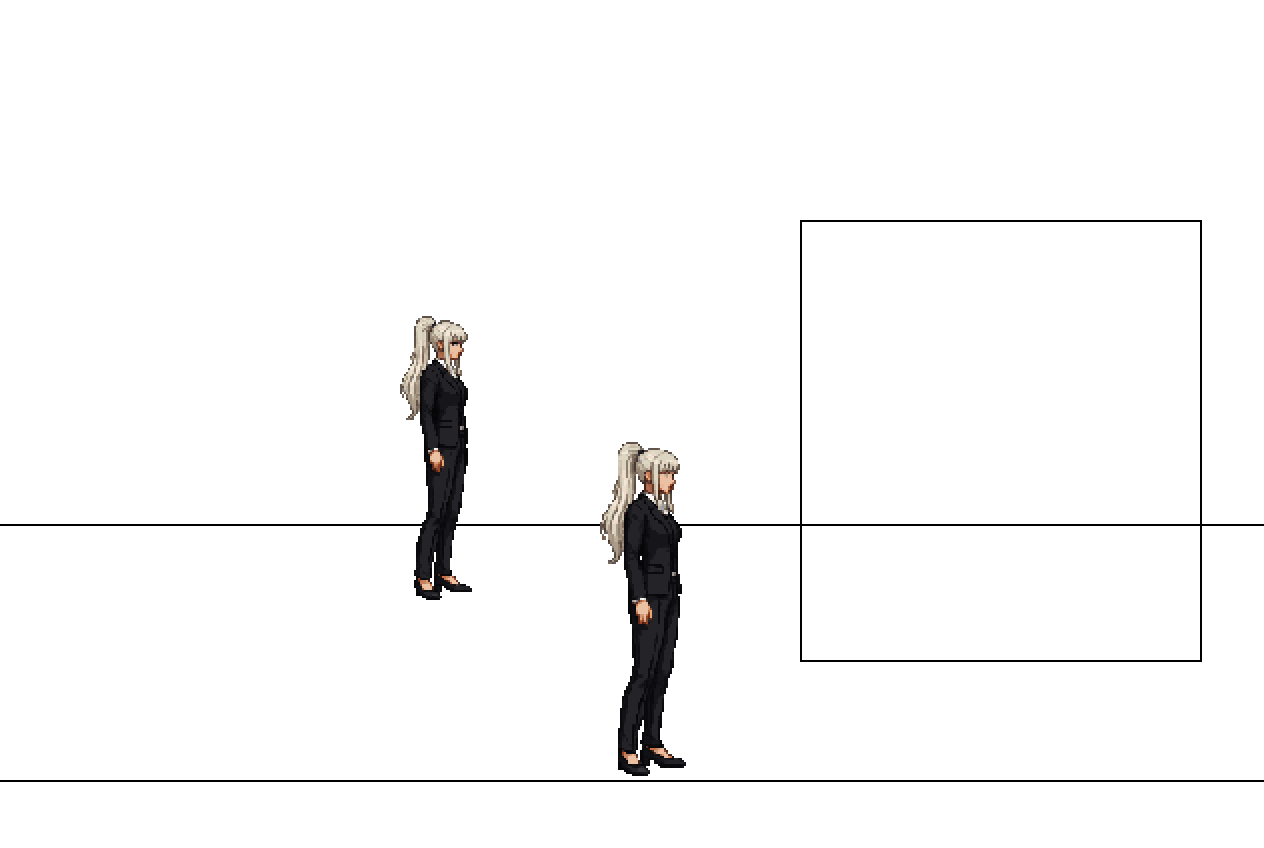
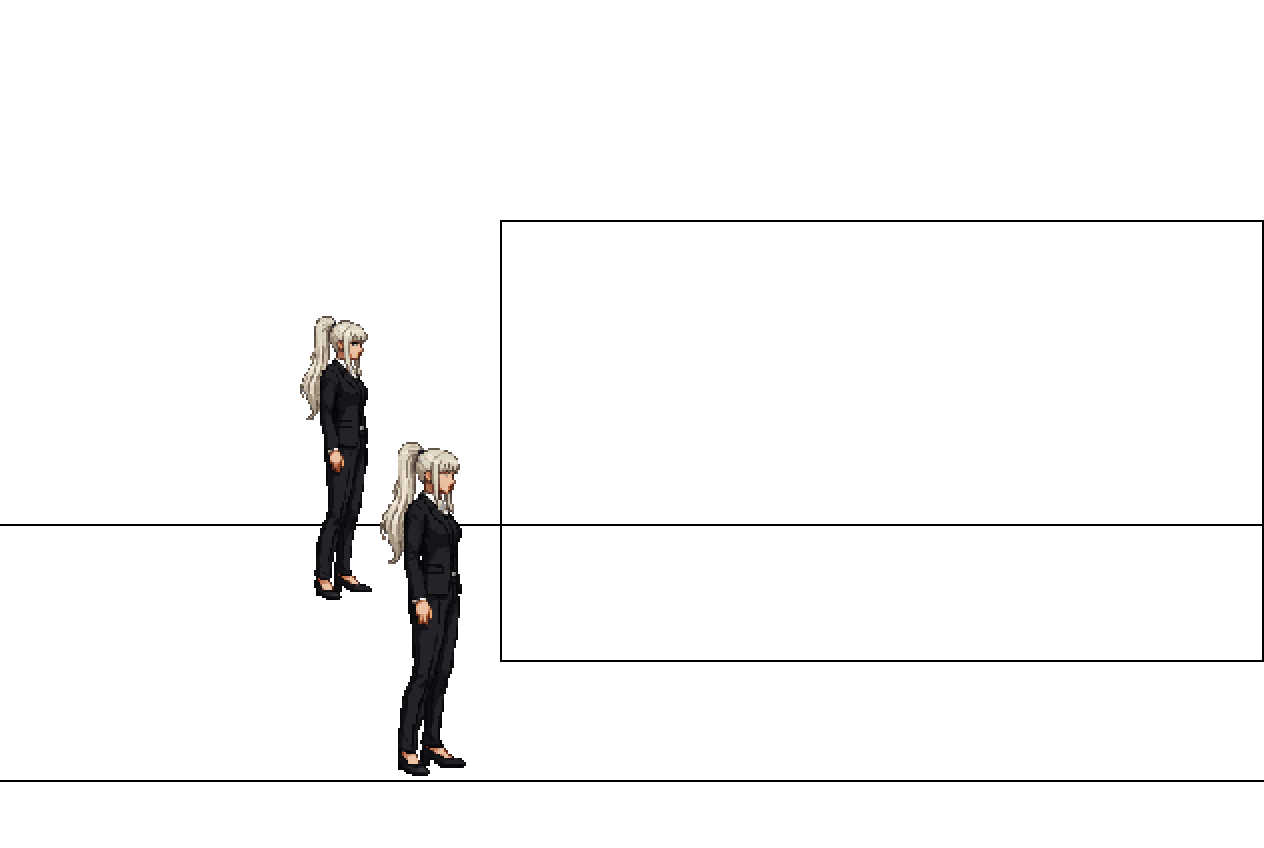
지상 첫 장: 지하상가 입구를 가운데부터 오른쪽 끝 밖까지 길게
Claude-Session: https://claude.ai/code/session_01JodrzemTroe6BHDEPyP4EJ

Changed region(s): [[0.216, 0.3679, 0.3703, 0.9198], [0.4628, 0.5212, 0.5554, 0.9198], [0.9873, 0.2453, 1.0, 0.7972]]

diff --git a/tools/pixellab/specs_jr_entry_v1.py b/tools/pixellab/specs_jr_entry_v1.py
@@ -7,16 +7,16 @@
 import json
 D = 'game-src/art/pixellab-test-20261028/specs/'
 items = [
- ("right 35 percent: a freestanding arcade entrance on the sidewalk like a Seoul subway exit, open end facing left, stairs going down to the right into darkness, waist-high railings on both sides, a glass canopy over it", "사용자: 오른쪽에 지하철 출입구 같은 지하상가 입구"),
+ ("right 60 percent: a long freestanding arcade entrance on the sidewalk like a Seoul subway exit, running from the middle to past the right edge, open end facing left, stairs going down to the right into darkness, waist-high railings along both sides, a long glass canopy over it", "사용자: 오른쪽에 지하철 출입구 같은 지하상가 입구"),
  ("on top of the canopy, right above the entrance: a sign board reading \"중림지하상가\"", "사용자: 간판은 입구 위"),
- ("clear empty sidewalk in front of the entrance", "출입구 앞 비움"),
+ ("clear sidewalk before the entrance", "출입구 앞 비움"),
  ("back: old low-rise shop buildings along the whole width, ground floor and part of the second floor, tops cut off", "거리 뒤 건물"),
- ("on the building fronts: faded blank signs, closed rusty shutters, a small open shop, a note reading \"임대\" on an empty window", "낡은 상가 거리"),
- ("against the buildings: a vending machine, a parked delivery motorbike, potted plants, trash bags and boxes", "거리 소품(인도 뒤쪽, 걷는 길 비움)"),
+ ("on the building fronts: faded blank signs, closed shutters, a small open shop, a note reading \"임대\" on an empty window", "낡은 상가 거리"),
+ ("against the buildings: a vending machine, a parked motorbike, potted plants, trash bags and boxes", "거리 소품(인도 뒤쪽, 걷는 길 비움)"),
  ("a utility pole with tangled wires", "전봇대·전선"),
  ("an old public phone", "공중전화"),
  ("a torn redevelopment banner, no letters", "재개발 현수막"),
- ("bottom 8 percent: a granite curb and a strip of asphalt road, no cars, no road markings", "사용자: 차도는 맨 아래 띠, 걷지 않음"),
+ ("bottom 8 percent: a curb and an asphalt strip, no cars, no markings", "사용자: 차도는 맨 아래 띠, 걷지 않음"),
  ("left 10 percent: only building fronts and sidewalk, continuing past the edge", "왼쪽으로 이어 그리기 자리"),
 ]
 d = {

diff --git a/tools/pixellab/guide_jr_street_v1.py b/tools/pixellab/guide_jr_street_v1.py
@@ -1,11 +1,11 @@
 """중림 지상 거리 가이드 v1(사용자 10-31): 투명 바탕에 선만. 통로 가이드와 같은 높이 기준.
 위 가로선 y262 = 인도가 건물 앞면과 만나는 선(바닥 38%), 아래 가로선 y390 = 연석(인도 끝, 그 아래 차도 띠 8%),
-사각형 x400~600 y110~330 = 오른쪽 지하상가 출입구(지붕 위 간판 포함)의 크기·자리."""
+사각형 x250~631 y110~330 = 오른쪽 지하상가 출입구(지붕 위 간판 포함): 그림 가운데부터 오른쪽 끝 밖까지 이어지는 긴 출입구."""
 import sys
 from PIL import Image, ImageDraw
 P = sys.argv[1]
 W, H = 632, 424
 im = Image.new('RGBA', (W, H), (0, 0, 0, 0)); d = ImageDraw.Draw(im); K = (0, 0, 0, 255)
 d.line([(0, 262), (W, 262)], fill=K); d.line([(0, 390), (W, 390)], fill=K)
-d.rectangle([400, 110, 600, 330], outline=K)
+d.rectangle([250, 110, 631, 330], outline=K)   # 사용자 10-31 「저렇게 짧게?」: 입구는 길게, 오른쪽 끝 밖으로 이어짐
 im.save(P + '/jr_street_guide_v1.png')

diff --git a/game-src/art/pixellab-test-20261028/specs/jr_entry_p1_v1_review.md b/game-src/art/pixellab-test-20261028/specs/jr_entry_p1_v1_review.md
@@ -4,9 +4,9 @@
 
 ## 점검 결과
 
-- WARN 설명이 김(37낱말): right 35 percent: a freestanding arcade entrance on the sidewalk like a Seoul subway exit, open end facing left, stairs going down to the right into darkness, waist-high railings on both sides, a glass canopy over it
+- WARN 설명이 김(48낱말): right 60 percent: a long freestanding arcade entrance on the sidewalk like a Seoul subway exit, running from the middle to past the right edge, open end facing left, stairs going down to the right into darkness, waist-high railings along both sides, a long glass canopy over it
 - WARN 설명이 김(20낱말): back: old low-rise shop buildings along the whole width, ground floor and part of the second floor, tops cut off
-- WARN 설명이 김(22낱말): on the building fronts: faded blank signs, closed rusty shutters, a small open shop, a note reading "임대" on an empty window
+- WARN 설명이 김(21낱말): on the building fronts: faded blank signs, closed shutters, a small open shop, a note reading "임대" on an empty window
 - WARN 바닥 칸에 빛·그림자 없음
 
 ## 근거
@@ -35,16 +35,16 @@
 
 | # | 1차 (상세) | 근거 | 남길 낱말 | 2차 (실제) | 뺀 낱말(이유) |
 |---|---|---|---|---|---|
-| 0 | right 35 percent: a freestanding arcade entrance on the sidewalk like a Seoul subway exit, open end facing left, stairs going down to the right into darkness, waist-high railings on both sides, a glass canopy over it | 사용자: 오른쪽에 지하철 출입구 같은 지하상가 입구 |  | right 35 percent: a freestanding arcade entrance on the sidewalk like a Seoul subway exit, open end facing left, stairs going down to the right into darkness, waist-high railings on both sides, a glass canopy over it |  |
+| 0 | right 60 percent: a long freestanding arcade entrance on the sidewalk like a Seoul subway exit, running from the middle to past the right edge, open end facing left, stairs going down to the right into darkness, waist-high railings along both sides, a long glass canopy over it | 사용자: 오른쪽에 지하철 출입구 같은 지하상가 입구 |  | right 60 percent: a long freestanding arcade entrance on the sidewalk like a Seoul subway exit, running from the middle to past the right edge, open end facing left, stairs going down to the right into darkness, waist-high railings along both sides, a long glass canopy over it |  |
 | 1 | on top of the canopy, right above the entrance: a sign board reading "중림지하상가" | 사용자: 간판은 입구 위 |  | on top of the canopy, right above the entrance: a sign board reading "중림지하상가" |  |
-| 2 | clear empty sidewalk in front of the entrance | 출입구 앞 비움 |  | clear empty sidewalk in front of the entrance |  |
+| 2 | clear sidewalk before the entrance | 출입구 앞 비움 |  | clear sidewalk before the entrance |  |
 | 3 | back: old low-rise shop buildings along the whole width, ground floor and part of the second floor, tops cut off | 거리 뒤 건물 |  | back: old low-rise shop buildings along the whole width, ground floor and part of the second floor, tops cut off |  |
-| 4 | on the building fronts: faded blank signs, closed rusty shutters, a small open shop, a note reading "임대" on an empty window | 낡은 상가 거리 |  | on the building fronts: faded blank signs, closed rusty shutters, a small open shop, a note reading "임대" on an empty window |  |
-| 5 | against the buildings: a vending machine, a parked delivery motorbike, potted plants, trash bags and boxes | 거리 소품(인도 뒤쪽, 걷는 길 비움) |  | against the buildings: a vending machine, a parked delivery motorbike, potted plants, trash bags and boxes |  |
+| 4 | on the building fronts: faded blank signs, closed shutters, a small open shop, a note reading "임대" on an empty window | 낡은 상가 거리 |  | on the building fronts: faded blank signs, closed shutters, a small open shop, a note reading "임대" on an empty window |  |
+| 5 | against the buildings: a vending machine, a parked motorbike, potted plants, trash bags and boxes | 거리 소품(인도 뒤쪽, 걷는 길 비움) |  | against the buildings: a vending machine, a parked motorbike, potted plants, trash bags and boxes |  |
 | 6 | a utility pole with tangled wires | 전봇대·전선 |  | a utility pole with tangled wires |  |
 | 7 | an old public phone | 공중전화 |  | an old public phone |  |
 | 8 | a torn redevelopment banner, no letters | 재개발 현수막 |  | a torn redevelopment banner, no letters |  |
-| 9 | bottom 8 percent: a granite curb and a strip of asphalt road, no cars, no road markings | 사용자: 차도는 맨 아래 띠, 걷지 않음 |  | bottom 8 percent: a granite curb and a strip of asphalt road, no cars, no road markings |  |
+| 9 | bottom 8 percent: a curb and an asphalt strip, no cars, no markings | 사용자: 차도는 맨 아래 띠, 걷지 않음 |  | bottom 8 percent: a curb and an asphalt strip, no cars, no markings |  |
 | 10 | left 10 percent: only building fronts and sidewalk, continuing past the edge | 왼쪽으로 이어 그리기 자리 |  | left 10 percent: only building fronts and sidewalk, continuing past the edge |  |
 
 ## 3차 자가 검토
@@ -64,12 +64,12 @@
 - 원근·바닥 몫·양옆 벽·문·채우기가 이 장면에 정한 대로인가?
   - 카메라 문장 지하와 같음, 원근 street, 양옆 open, 바닥 38%(인도 30+차도 8), 가이드 jr_street_guide_v1
 
-## 2차 요청문 (1985자)
+## 2차 요청문 (2000자)
 
 ```
 Pixel art game background of a run-down 1990s Seoul shopping street sidewalk, late morning daylight. Camera at standing eye height, about 20 degrees above the floor, looking slightly down. One-point depth, but the building fronts behind the sidewalk run straight and level across the full width. The floor fills the lower 38 percent: sidewalk, a road strip at the very bottom of the image. Nothing closes the sides: the street keeps going past both image edges.
 FLOOR: smooth worn grey concrete sidewalk like one sheet, stains, scattered litter.
-VERY CLUTTERED: every wall, shelf and corner packed with small props: right 35 percent: a freestanding arcade entrance on the sidewalk like a Seoul subway exit, open end facing left, stairs going down to the right into darkness, waist-high railings on both sides, a glass canopy over it; on top of the canopy, right above the entrance: a sign board reading "중림지하상가"; clear empty sidewalk in front of the entrance; back: old low-rise shop buildings along the whole width, ground floor and part of the second floor, tops cut off; on the building fronts: faded blank signs, closed rusty shutters, a small open shop, a note reading "임대" on an empty window; against the buildings: a vending machine, a parked delivery motorbike, potted plants, trash bags and boxes; a utility pole with tangled wires; an old public phone; a torn redevelopment banner, no letters; bottom 8 percent: a granite curb and a strip of asphalt road, no cars, no road markings; left 10 percent: only building fronts and sidewalk, continuing past the edge.
+VERY CLUTTERED: every wall, shelf and corner packed with small props: right 60 percent: a long freestanding arcade entrance on the sidewalk like a Seoul subway exit, running from the middle to past the right edge, open end facing left, stairs going down to the right into darkness, waist-high railings along both sides, a long glass canopy over it; on top of the canopy, right above the entrance: a sign board reading "중림지하상가"; clear sidewalk before the entrance; back: old low-rise shop buildings along the whole width, ground floor and part of the second floor, tops cut off; on the building fronts: faded blank signs, closed shutters, a small open shop, a note reading "임대" on an empty window; against the buildings: a vending machine, a parked motorbike, potted plants, trash bags and boxes; a utility pole with tangled wires; an old public phone; a torn redevelopment banner, no letters; bottom 8 percent: a curb and an asphalt strip, no cars, no markings; left 10 percent: only building fronts and sidewalk, continuing past the edge.
 WALL: grimy concrete and old tile building fronts, peeling paint, rust streaks.
 LIGHT: soft daylight shadows under objects and the canopy, dark stairwell.
 STYLE: dense, highly detailed pixel art, crisp pixel clusters, selective dark outline, rich medium-to-detailed shading, faded grey, beige, dull blue, rust, soft daylight, no dithering, no blur. No people, chairs, sofas, benches, coffee tables, clocks or cars.
